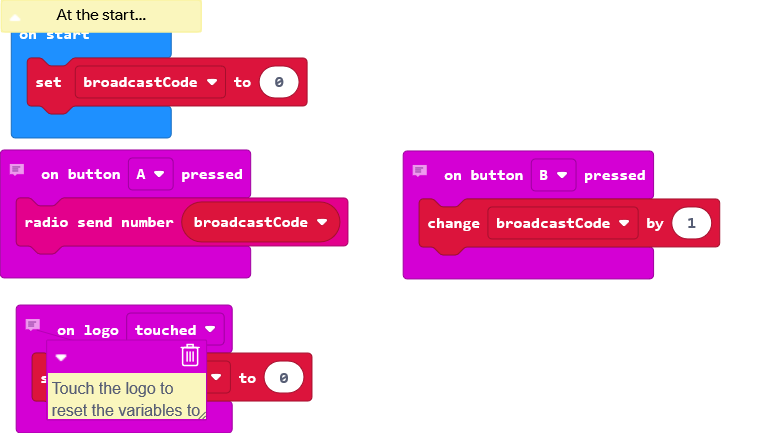
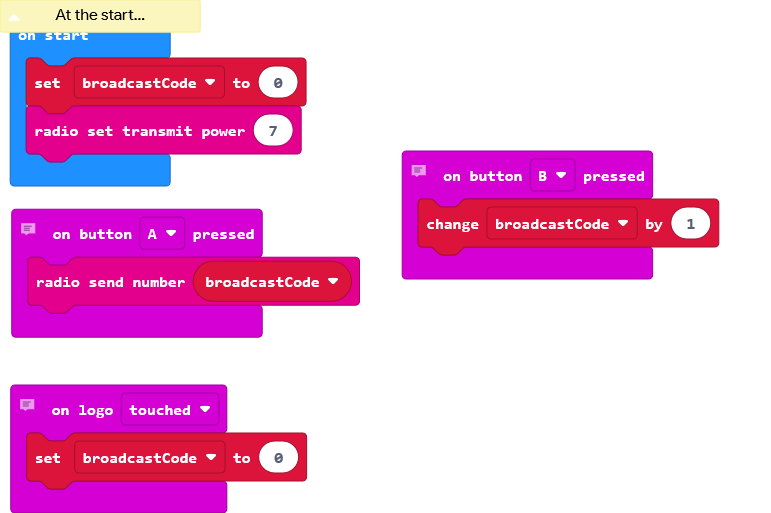
set the radio strength to 7 (max) for stronger and longer radio spread.

diff --git a/main.ts b/main.ts
@@ -15,3 +15,4 @@ input.onLogoEvent(TouchButtonEvent.Touched, function () {
  */
 let broadcastCode = 0
 broadcastCode = 0
+radio.setTransmitPower(7)
